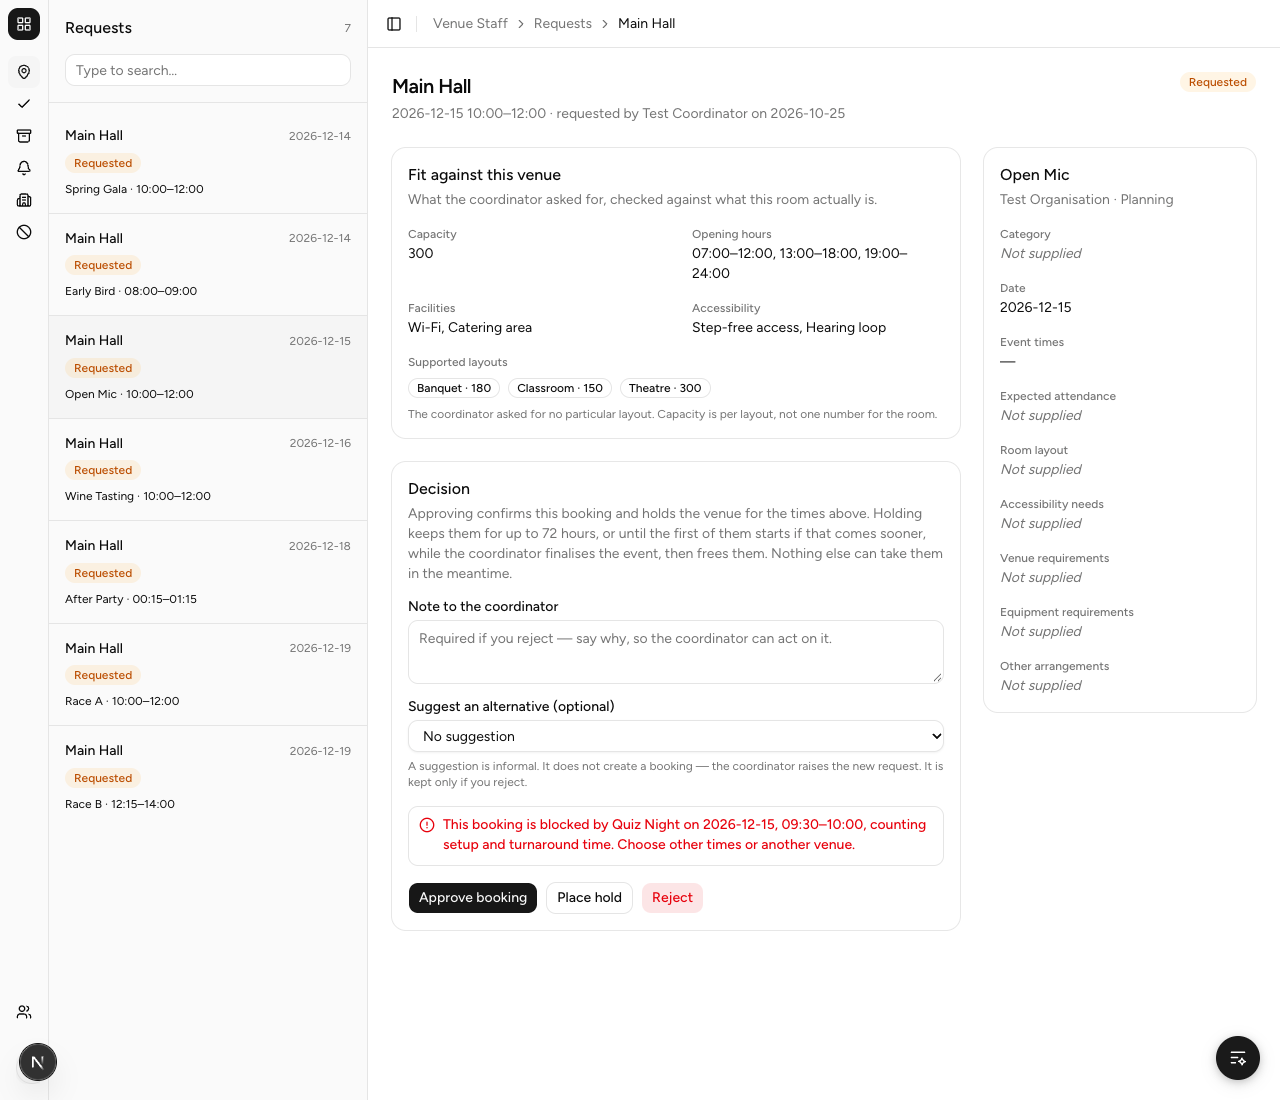
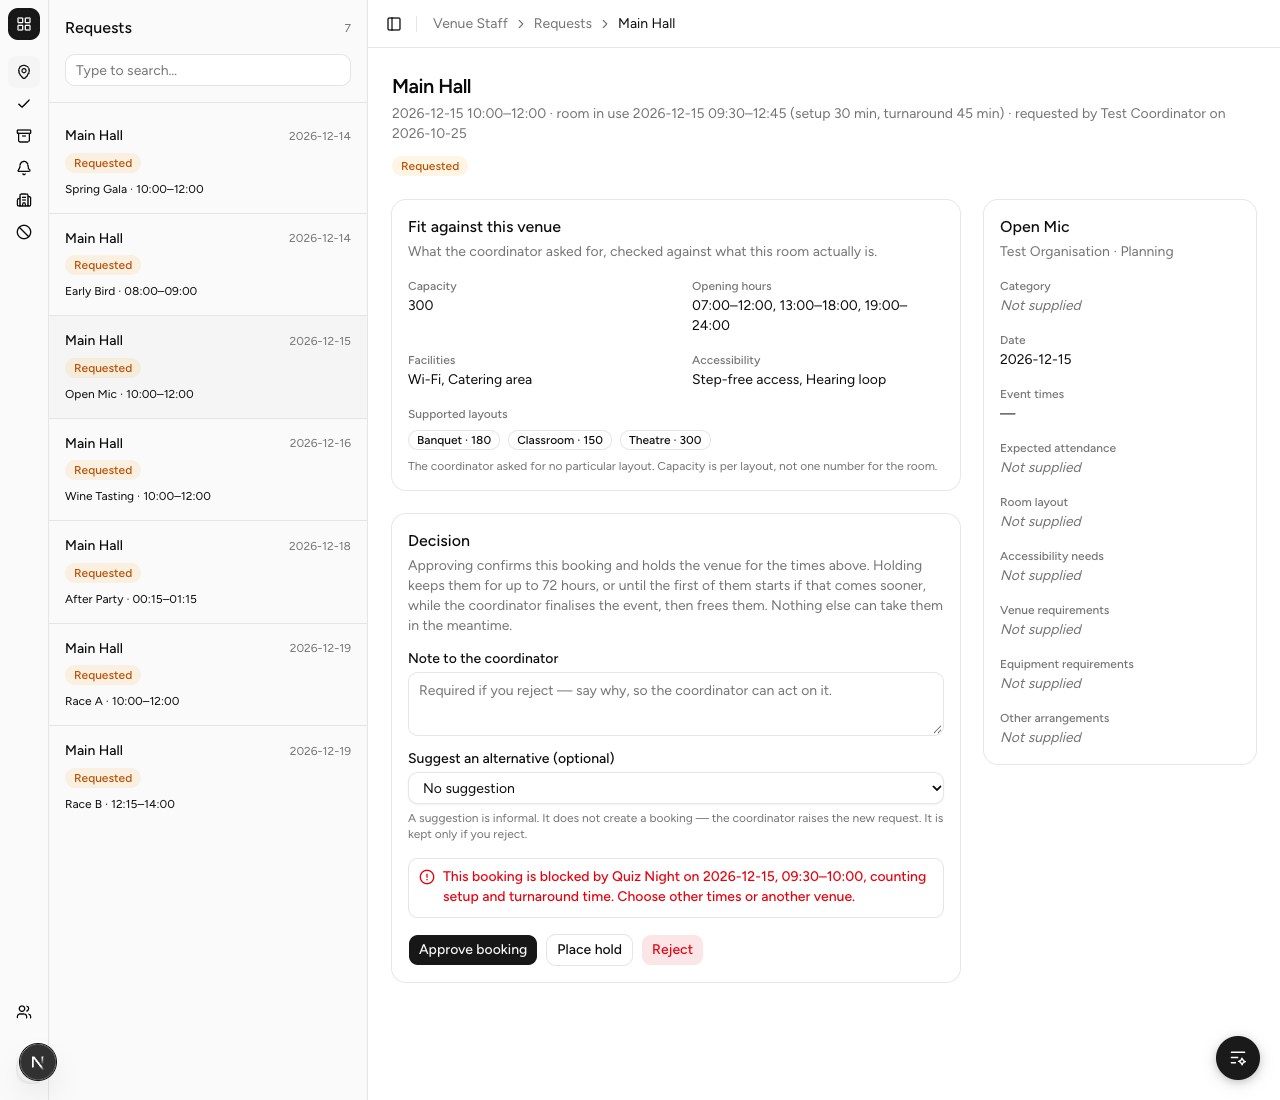
feat(app): show the room's setup and turnaround time beside the venue on a booking page (SPM-19)
Venue Staff see, under the venue's name on every booking page, when the room is really in
use (the booked times plus setup and turnaround) and the two values, so a padded refusal
is no surprise.

diff --git a/src/app/staff/venue/booking-detail.tsx b/src/app/staff/venue/booking-detail.tsx
@@ -20,7 +20,7 @@ import type { BookingReviewDetail } from "@/core/use-cases/review-booking-reques
 import { FieldList } from "../field-list";
 import { detailCrumbs, type DetailOrigin } from "../detail-origin";
 import { formatHoldExpiry } from "../hold-expiry";
-import { formatTimes } from "../slot-label";
+import { formatOccupied, formatTimes } from "../slot-label";
 import { PageHeader, StaffShell, type VenueSection } from "../staff-shell";
 import { StatusBadge } from "../status-badge";
 import { DecisionForm } from "./[id]/decision-form";
@@ -102,6 +102,8 @@ export async function BookingDetail({
   const decided = booking.status !== "Requested";
   const { section, queueLabel, queueHref } = sectionOf(booking.status);
   const times = formatTimes(booking.times);
+  // SPM-19: what the booking really takes from the room, next to the venue's name.
+  const occupied = formatOccupied(booking.times, venue);
   const onHold = booking.status === "Tentative Hold" && booking.holdExpiresAt !== null;
   // SPM-253: a hold that ran out and was marked Expired. Its expiry stays on record.
   const expired = booking.status === "Expired" && booking.holdExpiresAt !== null;
@@ -116,7 +118,7 @@ export async function BookingDetail({
     >
       <PageHeader
         title={booking.venueLocation}
-        description={`${times} · requested by ${booking.requestedByName} on ${formatInstantDate(booking.requestedAt)}${
+        description={`${times}${occupied === null ? "" : ` · ${occupied}`} · requested by ${booking.requestedByName} on ${formatInstantDate(booking.requestedAt)}${
           onHold ? ` · on hold until ${formatHoldExpiry(booking.holdExpiresAt!)}` : ""
         }`}
         actions={<StatusBadge status={booking.status} />}

diff --git a/src/app/staff/slot-label.test.ts b/src/app/staff/slot-label.test.ts
@@ -1,6 +1,6 @@
 import { describe, expect, it } from "vitest";
 
-import { slotLabel } from "./slot-label";
+import { formatOccupied, slotLabel } from "./slot-label";
 
 describe("slotLabel (SPM-46)", () => {
   it("names each slot with its hours", () => {
@@ -10,5 +10,27 @@ describe("slotLabel (SPM-46)", () => {
 
   it("shows Night ending at midnight as 12:00 AM", () => {
     expect(slotLabel("Night")).toBe("Night (7:00 PM – 12:00 AM)");
+  });
+});
+
+describe("formatOccupied (SPM-19)", () => {
+  const times = [{ date: "2026-12-14", start: "10:00", end: "12:00" }];
+
+  it("names the time the room is used with setup and turnaround, and each value, for Main Hall 30 and 45", () => {
+    expect(formatOccupied(times, { setupMinutes: 30, turnaroundMinutes: 45 })).toBe(
+      "room in use 2026-12-14 09:30–12:45 (setup 30 min, turnaround 45 min)",
+    );
+  });
+
+  it("splits a window that runs past midnight by date", () => {
+    expect(
+      formatOccupied([{ date: "2026-12-17", start: "22:00", end: "24:00" }], { setupMinutes: 30, turnaroundMinutes: 45 }),
+    ).toBe("room in use 2026-12-17 21:30–24:00, 2026-12-18 00:00–00:45 (setup 30 min, turnaround 45 min)");
+  });
+
+  it("says nothing for a venue with none set, or 0 and 0, since nothing is added", () => {
+    expect(formatOccupied(times, { setupMinutes: null, turnaroundMinutes: null })).toBeNull();
+    expect(formatOccupied(times, { setupMinutes: 0, turnaroundMinutes: 0 })).toBeNull();
+    expect(formatOccupied(times, null)).toBeNull();
   });
 });

diff --git a/src/app/staff/slot-label.ts b/src/app/staff/slot-label.ts
@@ -1,5 +1,7 @@
 import { SLOT_HOURS, type BookingSlot } from "@/core/domain/booking";
 import type { TimeRangeOnDate } from "@/core/domain/event-times";
+import { paddedWindows } from "@/core/domain/padded-window";
+import { bufferMinutes, type VenueBuffers } from "@/core/domain/venue-buffers";
 
 import { formatTimeOnly } from "./time-picker";
 
@@ -12,6 +14,21 @@ export function slotLabel(slot: BookingSlot): string {
 /** Each date with its start and end time, e.g. "2026-11-04 07:00–12:00" (SPM-324), or a dash. */
 export function formatTimes(times: readonly TimeRangeOnDate[]): string {
   return times.length === 0 ? "—" : times.map(({ date, start, end }) => `${date} ${start}–${end}`).join(", ");
+}
+
+/**
+ * SPM-19: the time a booking really takes from its venue, setup and turnaround included, with
+ * the two values, e.g. "room in use 2026-12-14 09:30–12:45 (setup 30 min, turnaround 45 min)".
+ * Null when the venue adds nothing (none set, or 0 and 0), so there is nothing more to say.
+ */
+export function formatOccupied(
+  times: readonly TimeRangeOnDate[],
+  venue: Partial<VenueBuffers> | null,
+): string | null {
+  const { setup, turnaround } = bufferMinutes(venue ?? {});
+  if (setup === 0 && turnaround === 0) return null;
+  const windows = times.flatMap((time) => paddedWindows(time, { setup, turnaround }));
+  return `room in use ${formatTimes(windows)} (setup ${setup} min, turnaround ${turnaround} min)`;
 }
 
 /** The slot codes as a list, or a dash when there are none. */

diff --git a/docs/testing/VENUE_PADDING_MANUAL_TESTS.md b/docs/testing/VENUE_PADDING_MANUAL_TESTS.md
@@ -60,15 +60,16 @@ each result; the database scripts ran TC-VPAD-007. Run 001 to 006 in order on a 
 **Scenario:** Charity Run ends at 09:15, and Main Hall needs 45 minutes to be turned around, so the room is busy until 10:00. Spring Gala is 10:00–12:00 but its setup starts at 09:30. The booked times do not touch, but the padded times overlap by 30 minutes.
 
 **Steps:**
-1. As Venue Staff, open **Spring Gala** (Main Hall, Mon 14 Dec 2026, 10:00–12:00) from **Requests**.
+1. As Venue Staff, open **Spring Gala** (Main Hall, Mon 14 Dec 2026, 10:00–12:00) from **Requests**, and read the line under **Main Hall**.
 2. Press **Approve booking**.
 3. Look at the booking's status and the buttons.
 
 **Expected Result:**
+- Step 1: the line reads *2026-12-14 10:00–12:00 · room in use 2026-12-14 09:30–12:45 (setup 30 min, turnaround 45 min) · requested by Test Coordinator …*. The same line appears on every booking page (Requests, Decided and Archive) for a venue with setup or turnaround, and is left out for one with none.
 - Step 2: refused with *This booking is blocked by Charity Run on 2026-12-14, 09:30–10:00, counting setup and turnaround time. Choose other times or another venue.*
 - Step 3: the booking is still **Requested**, and **Reject** is still available.
 
-**Status:** [x] Pass [ ] Fail — 2026-10-25, run in Chrome via Playwright for JameszLau (2/2 checks)
+**Status:** [x] Pass [ ] Fail — 2026-10-25, run in Chrome via Playwright for JameszLau (3/3 checks)
 
 **Screenshots:** [step1-spring-gala-request](../screenshots/2026-10-24_SPM-19_TC-VPAD-001_step1-spring-gala-request.png) · [step2-approval-refused](../screenshots/2026-10-24_SPM-19_TC-VPAD-001_step2-approval-refused.png)
 
